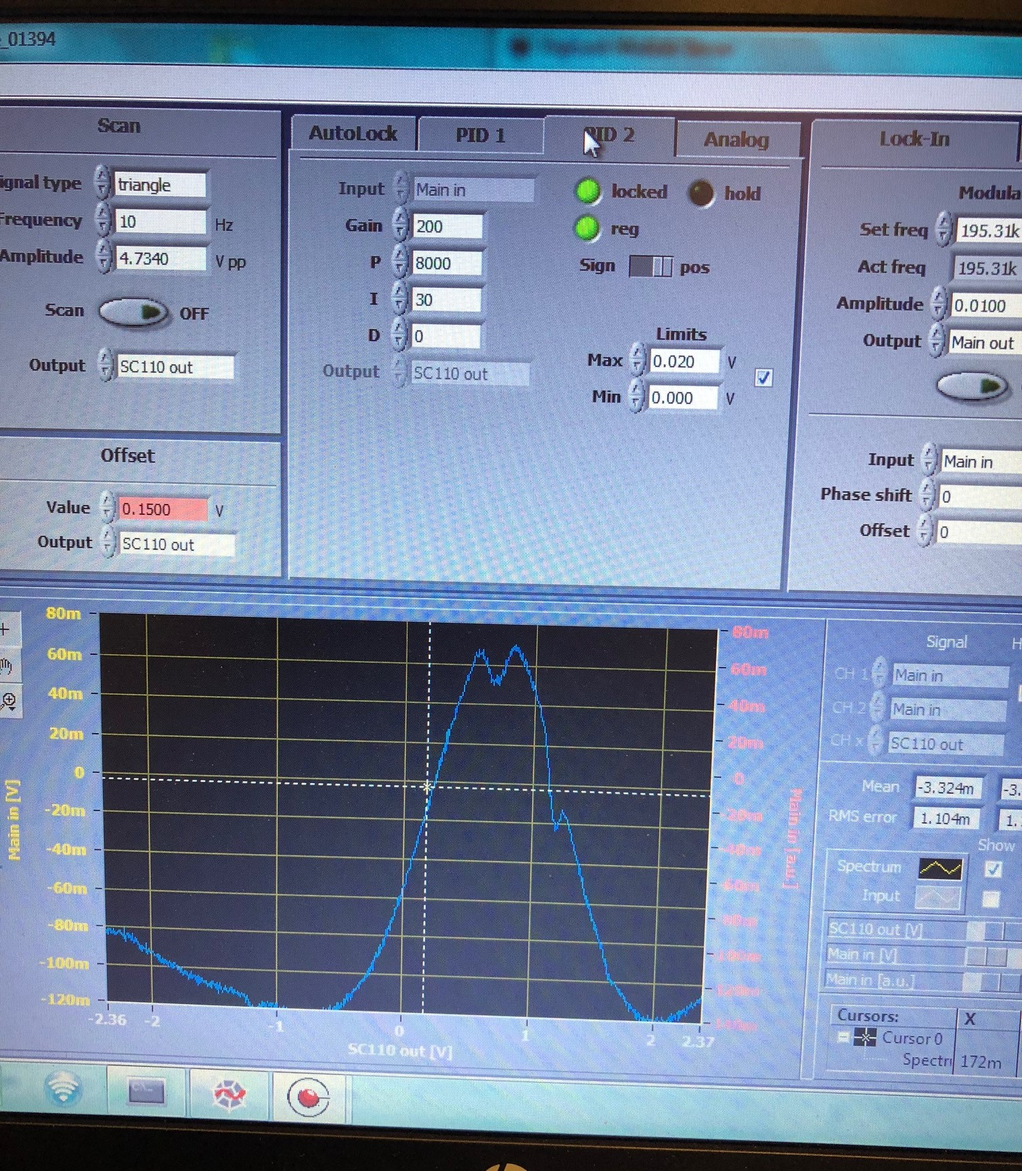
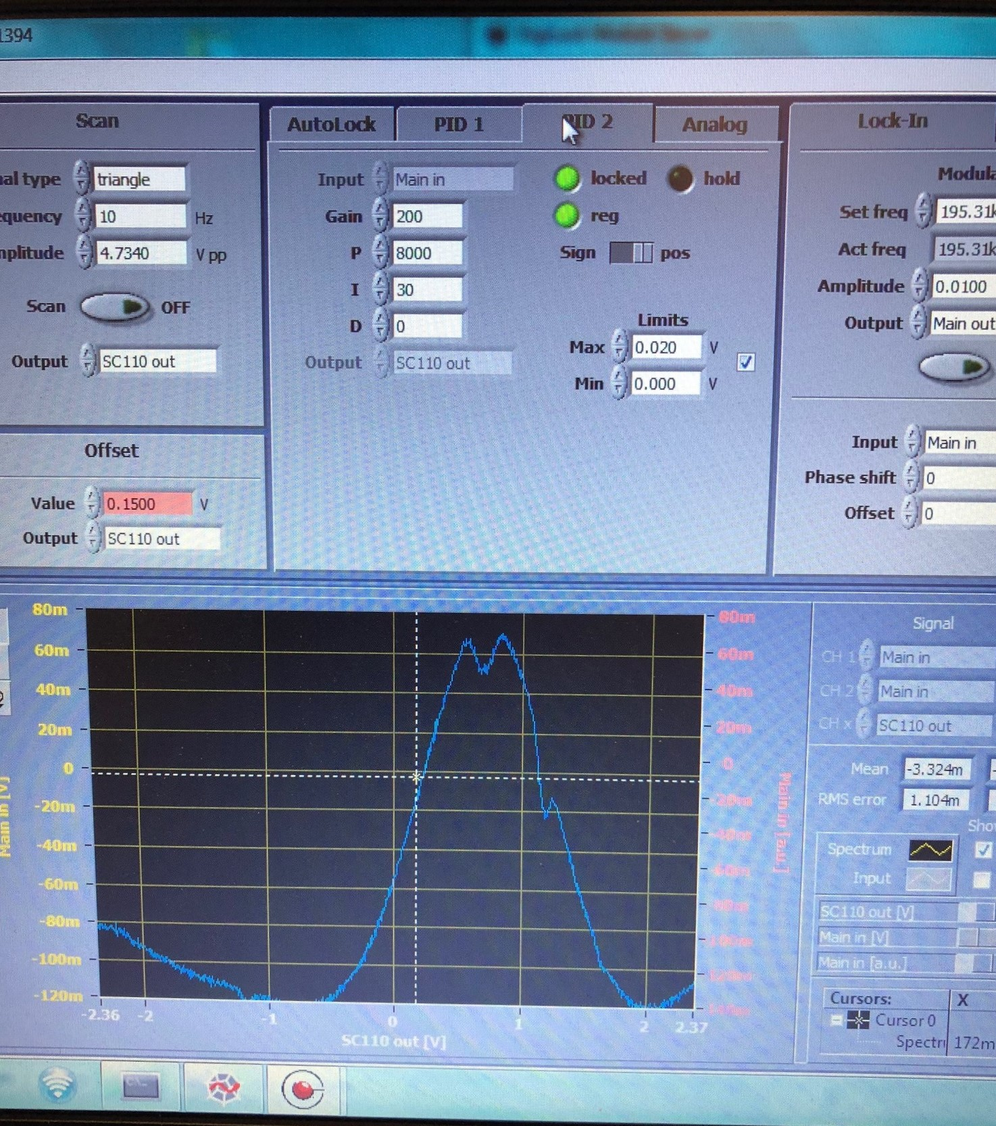
any commits from Friday until 2 pm

diff --git a/my_experiment.tex b/my_experiment.tex
@@ -85,15 +85,13 @@ polarization is rotated by passage through the cell, it will be sensed
  
  Fig.~\ref{fig:pumpprobe}  shows the schematic layout of the apparatus used for studying the
 non-linear magneto-optical effects with the amplitude modulated
-light. In this work, a paraffin-coated vapor cell (about 5 cm long)
+light. This experimental setup is used in Forced oscillation scan and FID NMOR discussed in section \ref{sec:Forced-Oscillation Mode} and \ref{sec:FID}. In this work, a paraffin-coated vapor cell (about 5 cm long)
 containing natural rubidium with stable isotopes $^{87}$Rb~ and~
-$^{85}$Rb, is used as the magneto-optical sample. To get maximum
-sensitivity and to reduce ambient fields the cell is placed within a
-magnetic shield made of four-layer of $\mu$ metal. A semiconductor diode laser is the light source. The laser
+$^{85}$Rb, is used as the magneto-optical sample. A semiconductor diode laser is the light source. The laser
 wavelength ($\lambda=795$ nm) is precisely controlled by an external locking system.  The light beam is splited into pump and
-probe beam using a beamsplliter. The typical light power of the pump
+probe beam using a microscope slide. The typical light power of the pump
 beam is 40 $\mu$W and the typical light power of the probe beam is 20
-$\mu$W. Acousto Optic Modulator (AOM) is used to modulate the pump beam. The details of the working principle of AOM is discussed in section \ref{sec:AOM}. Upon passing through the AOM the pump beam is then passes through a lens to collimate. Before interact with the Rb cell pump beam passes trough a N.D.F and polarizer to reduce the beam power. After that the linearly polarized light beam interact with Rb
+$\mu$W.  Acousto Optic Modulator (AOM) is used to modulate the amplitude of the pump beam. The details of the working principle of AOM is discussed in section \ref{sec:AOM}. Upon passing through the AOM the pump beam is then passes through a lens to collimate. Before interact with the Rb cell pump beam then passes trough a N.D.F and polarizer to reduce the beam power. After that the linearly polarized light beam interact with Rb
 atoms. 
 
 The probe beam then passes through our vapour cell which sits inside the shield. Then the nonlinear Faraday rotation signals are analyzed by a balanced polarimeter.  A Wollaston prism is used to
@@ -111,7 +109,7 @@ individual diodes and an internal differential amplifier which outputs the diffe
 \end{figure}
 \section{External Cavity Diode Laser(ECDL)}
 \bigskip
-In our NMOR based optical magnetometry setup, laser light was provided by an external cavity diode laser. These kind of diodes are semiconductor diodes and thus vibration and shock resistant. They are also wavelength tunable. Besides that, external cavity diodes emit single mode laser light with a very narrow-band linewidth. A critical aspect of an ECDL is temperature control of the cavity, since the laser frequency depends on the cavity length and hence on the thermal expansion coefficient of the cavity material. Micrometer screws enable manual coarse tuning, while precise scans without mode hops are performed by a piezo actuator. This kind of grating stabilized diode lasers is especially advantageous for spectroscopy with the alkalines. Our Toptica DL-100 outputs a tunable wavelength near 795 nm with an output power $<100$ mW. The laser spot size is elliptical, and approximately 3 mm x 5 mm = $15 mm^2$. The laser was typically tuned to the D1 (F = 3,2 2) absorption minimum and then adjusted to maximize optical rotation. Our NMOR system uses an atomic vapour cell containing natural rubidium with stable isotopes $^{87}Rb$ and $^{85}Rb$ both being present.
+In our NMOR based optical magnetometry setup, laser light was provided by an external cavity diode laser. These kind of diodes are semiconductor diodes and thus vibration and shock resistant. They are also wavelength tunable. Besides that, external cavity diodes emit single mode laser light with a very narrow-band linewidth. A critical aspect of an ECDL is temperature control of the cavity, since the laser frequency depends on the cavity length and hence on the thermal expansion coefficient of the cavity material. Micrometer screws enable manual coarse tuning, while precise scans without mode hops are performed by a piezo actuator. This kind of grating stabilized diode lasers is especially advantageous for spectroscopy with the alkalines. Our Toptica DL-100 outputs a tunable wavelength near 795 nm with an output power $<100$ mW. The laser spot size is elliptical, and approximately 3 mm x 5 mm = $15 mm^2$.  The laser was typically tuned to the D1 (F = 3,2 2) absorption minimum and then adjusted to maximize optical rotation. 
 
 \section{Dichroic Atomic Vapor Laser Lock (DAVLL)}
 
@@ -131,7 +129,7 @@ Laser current can be controlled by adjusting the current control knob until the 
 \caption{Diode laser controller unit consist of analog current control module (CC), scan control module (SC),low-noise temperature control module (TC), feedback controlyzer (FC) and Diode Laser Controller display .\label{fig:laser controller}}
 \end{figure}
 
-Digilock 110 feedback controlyzer(FC) is used for laser locking. The DigiLock 110 is an up-to-date digital hardware allows to implement the scan generator, PID controllers and optional frequency modulation techniques all into one plug in module. It offers graphical user interface running on a PC makes the procedure of laser locking enormously easy. Different important features are also available in this module for analyzing and optimizing the control system.
+Digilock 110 feedback controlyzer(FC) is used for laser locking. The DigiLock 110 is an up-to-date digital hardware allows to implement the scan generator, PID controllers and optional frequency modulation techniques all into one plug in module. It offers graphical user interface(see Fig \ref{fig:digilock}) running on a PC makes the procedure of laser locking enormously easy. Different important features are also available in this module for analyzing and optimizing the control system.
  \begin{figure}[h]
 \centering
 \includegraphics[width=0.7\linewidth]{figures/laser tune.png}
@@ -160,8 +158,8 @@ After Cell ~ &  ~ ~ ~ ~ ~ 18   \\
 \end{table}
 \begin{figure}[h]
 \centering
-\includegraphics[width=0.6\linewidth]{figures/digilock.jpg}
-\caption{digilock\label{fig:digilock}}
+\includegraphics[width=0.6\linewidth]{figures/digilock.png}
+\caption{digilock user interface\label{fig:digilock}}
 \end{figure}
 \section{Acousto-optic Modulator (AOM)\label{sec:AOM}}
 
@@ -217,7 +215,7 @@ and supplying the coil with oscillating current. An Agilent 3522A function gener
 had to be performed without end caps. The calibration constant for z coil is 48nT/mA and the calibration constant for x and y coil is 25nT/mA. The calibration of the z-coil was verified using the NMOR magnetometer with an AM pump beam, and the known gyromagnetic ratios of Rb-85 and Rb-87. Homogeneity of the residual field and magnetic field generated by the coil system was measured by scanning a fluxgate magnetometer along the axis of the system with and without the coil energized. At a field of 1 $\mu$T, the axial field generated by the coil was uniform within the ROI to the $1\%$  level.
 
 \section{Rb Cell}
-When glass cell is used to store alkali atoms, the atomic mean free paths increase and alkali spins depolarize immediately after making non-elastic collision with the glass walls. Prolonging the atomic alignment is crucial to achieving ultra-narrow NMOR resonance widths. So it is necessary to prevent these non-elastic collisions for achieving the longer lifetimes of atomic ground state coherences \cite{PhysRevA.72.023401}\cite{Balabas:10}  \cite{doi:10.1063/1.3236649}. Two methods are currently in use to extent the atomic coherence lifetime. One of them is to add buffer gas to the cell containing alkali sample and the other method is to coat the inner walls of the cell with anti-relaxation materials. The advantage of using buffer gas is that it reduces the resonance width by extending the lifetime of coherence state. A paraffin-coated vapor cell containing  natural rubidium with stable isotopes $^{85}$Rb and $^{87}$Rb is used for this work. The reason behind using paraffin as a anti-relaxation coating is that it allow polarized atoms to bounce off the walls of a paraffin-coated cell $\sim 1000$ times before depolarizing\cite{PhysRev.147.41}\cite{PhysRevA.72.023401}. Coated cells have the advantages of providing larger optical rotation
+When glass cell is used to store alkali atoms, the atomic mean free paths increase and alkali spins depolarize immediately after making non-elastic collision with the glass walls. Prolonging the atomic alignment is crucial to achieving ultra-narrow NMOR resonance widths. So it is necessary to prevent these non-elastic collisions for achieving the longer lifetimes of atomic ground state coherences \cite{PhysRevA.72.023401}\cite{Balabas:10}  \cite{doi:10.1063/1.3236649}. Two methods are currently in use to extent the atomic coherence lifetime. One of them is to add buffer gas to the cell containing alkali sample and the other method is to coat the inner walls of the cell with anti-relaxation materials. The advantage of using buffer gas is that it reduces the resonance width by extending the lifetime of coherence state. A paraffin-coated vapor cell containing  natural rubidium with stable isotopes $^{85}$Rb and $^{87}$Rb is used for this work. The reason behind using paraffin as a anti-relaxation coating is that it allow polarized atoms to bounce off the walls of a paraffin-coated cell $\sim 1000$ times before depolarizing \cite{PhysRev.147.41} \cite{PhysRevA.72.023401}. Coated cells have the advantages of providing larger optical rotation
 signals, reducing the effect of magnetic field gradients on the spin polarization lifetime,
 and lowering the power requirements of the lasers used for pumping and probing. The vapor cell is cylindrical, 5 cm long and 5 cm in diameter with optical
 flats on the ends. The cell was provided by D. Budker, having been prepared in

diff --git a/characterization.tex b/characterization.tex
@@ -162,7 +162,7 @@ this Master's thesis was prepared. Although main focus of this work
 was to study magnetometer performance in Free Induction Decay (FID)
 mode.
 
-\section{Amplitude Modulated NMOR:  Forced-Oscillation Mode}
+\section{Amplitude Modulated NMOR:  Forced-Oscillation Mode\label{sec:Forced-Oscillation Mode}}
 
 In forced-oscillation measurement mode, the pump beam amplitude is
 modulated and the differential photodiode signal is demodulated at the
@@ -377,7 +377,7 @@ next section.
 
 
 
-\subsection{Free Induction Decay}
+\section{Free Induction Decay\label{sec:FID}}
 
 The focus of this thesis was to study the magnetometer operation in
 free induction decay (FID) mode.  In FID mode, the quantum state of
@@ -542,14 +542,14 @@ Since our Rb magnetometer is a scalar magnetometer, it is not possible to measur
  
     \begin{subfigure}[b]{0.45\textwidth}
         \centering
-        \includegraphics[width=\textwidth]{figures/transverse_field}
+        \includegraphics[width=\textwidth]{figures/transversefield_2.png}
         \caption{}
         \label{fig:transverse}
     \end{subfigure}
     \hfill
     \begin{subfigure}[b]{0.45\textwidth}
         \centering
-        \includegraphics[width=\textwidth]{figures/transverse_field_2}
+        \includegraphics[width=\textwidth]{figures/transversefield}
         \caption{}
         \label{fig:transverse2}
     \end{subfigure}
